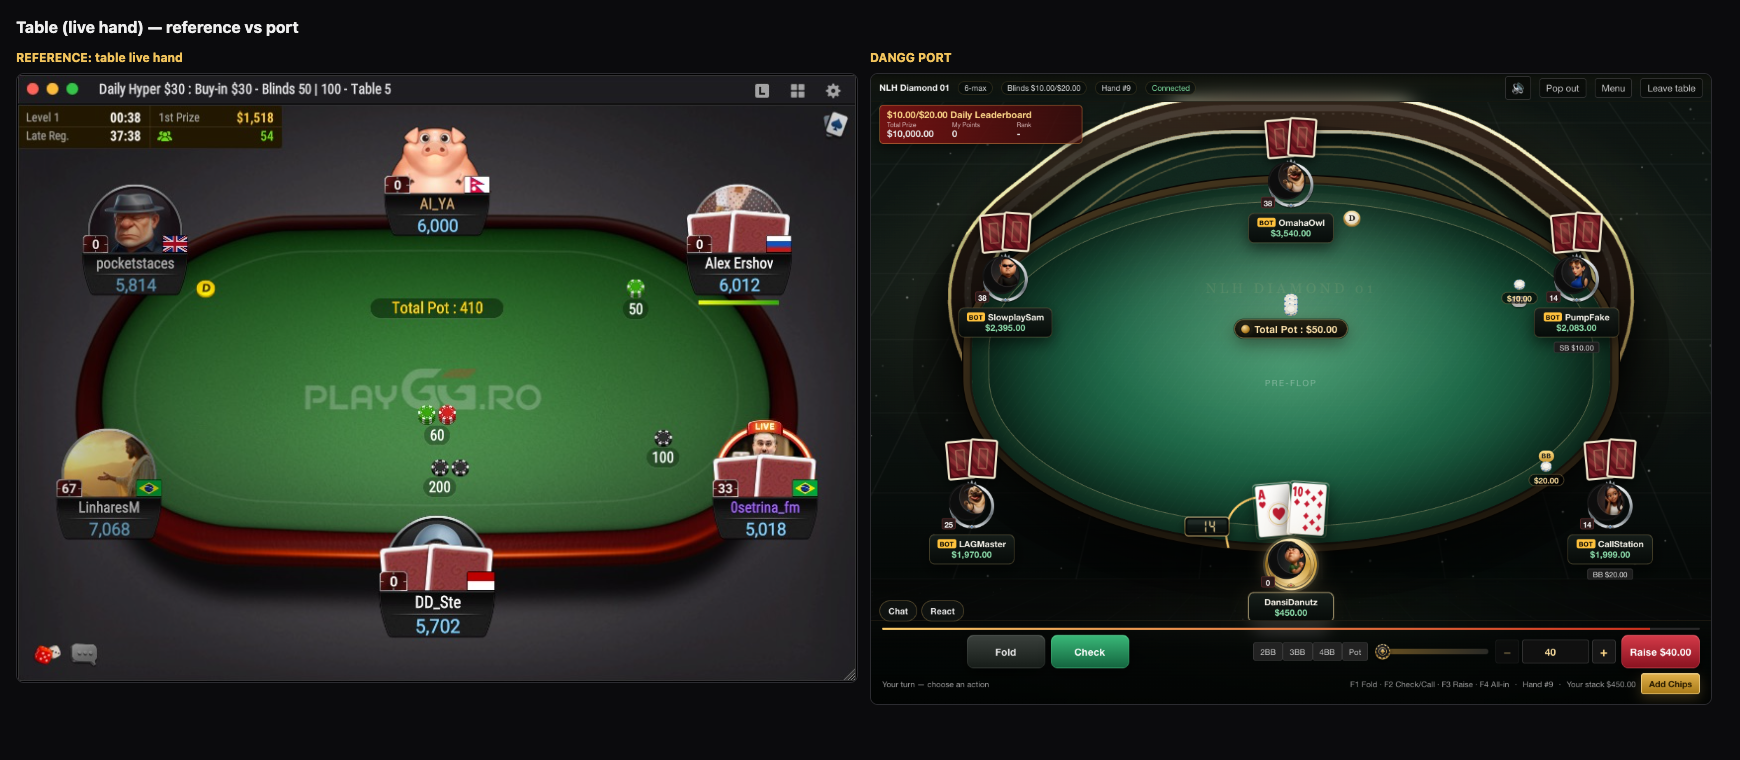
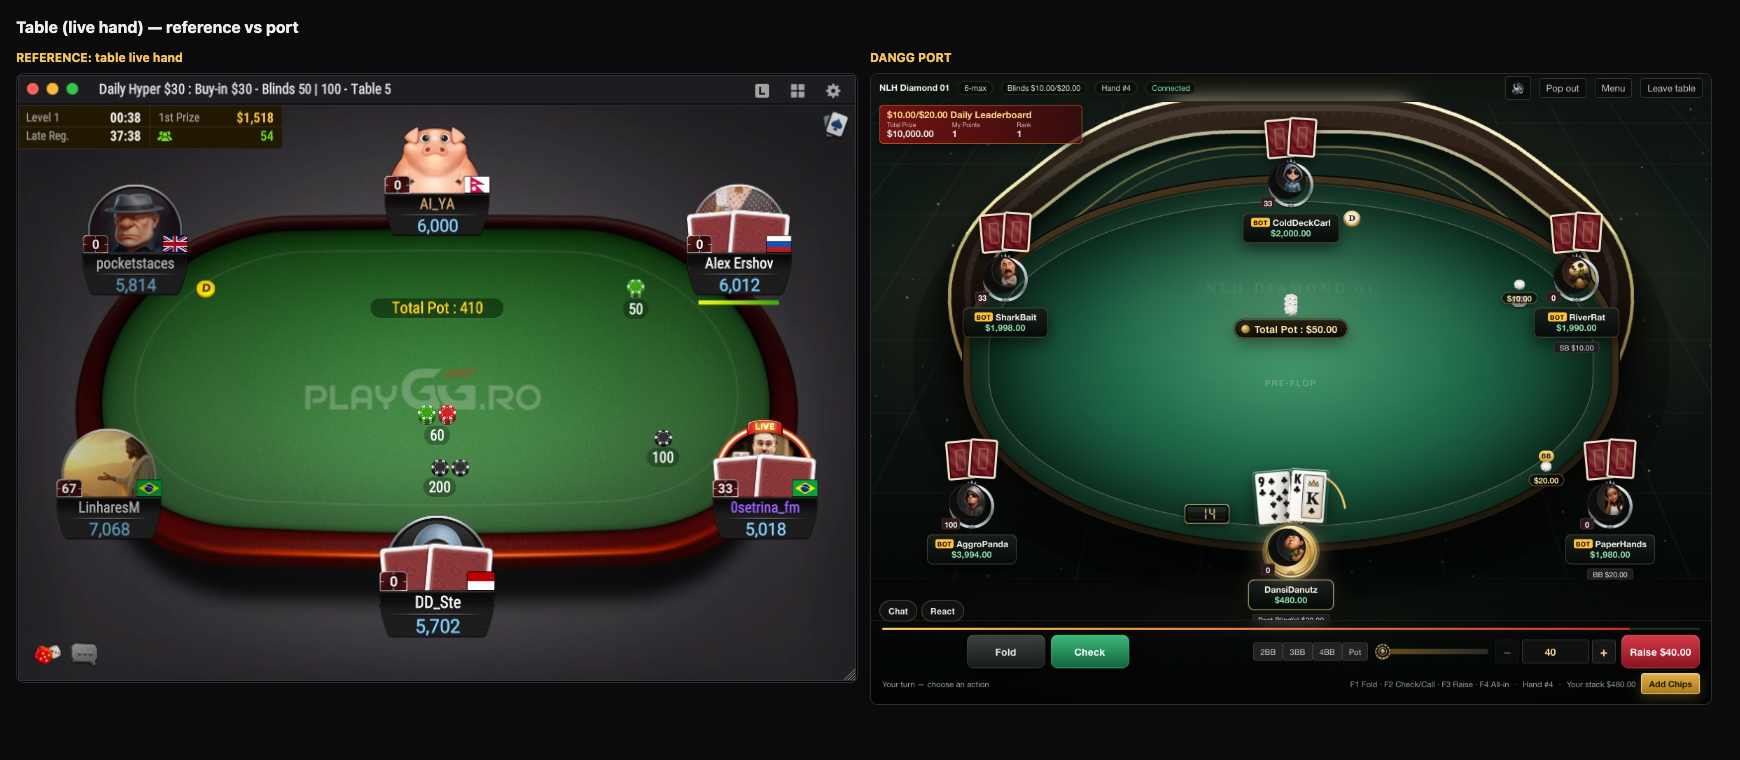
feat(table): hand-end celebration and hero pod clearance
- Winner: double expanding gold rings, avatar pulse, WIN banner pop with glow, gold
  gradient amount and six rising sparks; all reduced-motion aware.
- Chip flights get a warm trail; wager pills a stronger edge.
- Hero pod lifted 18px on desktop so the nickname/stack never clip behind the action
  bar; phone layout unchanged.
- Evidence: real winning hand (SharkBait +38) and refreshed 1200/1440 shots; 864 tests,
  tsc and Vite build clean.

diff --git a/app/src/table-premium.css b/app/src/table-premium.css
@@ -139,3 +139,65 @@
   @keyframes rotateHint { 0%, 40% { transform: rotate(0); } 60%, 100% { transform: rotate(90deg); } }
 }
 @media (prefers-reduced-motion: reduce) { .table-rotate-icon { animation: none !important; } }
+
+/* ---------- Hand-end celebration ---------- */
+.table-screen .seat.winner .avatar-wrap {
+  animation: winnerRing 1.5s var(--spring) 2;
+  box-shadow: 0 0 0 3px rgba(255, 228, 160, .35), 0 0 40px rgba(255, 213, 120, .55);
+}
+@keyframes winnerRing {
+  0% { transform: scale(1); }
+  35% { transform: scale(1.08); }
+  100% { transform: scale(1); }
+}
+.table-screen .seat.winner::after {
+  content: ''; position: absolute; left: 50%; top: 44%; width: 74px; height: 74px; margin: -37px 0 0 -37px;
+  border-radius: 50%; border: 2px solid rgba(255, 228, 160, .85);
+  animation: winRing 1.2s ease-out 2; pointer-events: none; z-index: 2;
+}
+@keyframes winRing {
+  0% { transform: scale(.7); opacity: .95; }
+  100% { transform: scale(2.1); opacity: 0; }
+}
+.table-screen .native-win {
+  animation: winBanner 1.6s var(--spring) both;
+  filter: drop-shadow(0 10px 22px rgba(0, 0, 0, .6)) drop-shadow(0 0 18px rgba(255, 213, 120, .45));
+}
+@keyframes winBanner {
+  0% { opacity: 0; transform: translateX(-50%) translateY(14px) scale(.7); }
+  45% { opacity: 1; transform: translateX(-50%) translateY(-6px) scale(1.06); }
+  100% { opacity: 1; transform: translateX(-50%) translateY(0) scale(1); }
+}
+.table-screen .seat .win-amount {
+  font-size: 19px; font-weight: 900; letter-spacing: .4px;
+  background: linear-gradient(180deg, #fff8df, #ffe09a 55%, #d8a53f);
+  -webkit-background-clip: text; background-clip: text; color: transparent;
+  filter: drop-shadow(0 2px 4px rgba(0, 0, 0, .8)) drop-shadow(0 0 10px rgba(255, 213, 120, .55));
+}
+/* Gold sparks above the winner. */
+.table-screen .seat.winner .cards::before {
+  content: ''; position: absolute; left: 50%; top: -18px; width: 6px; height: 6px; border-radius: 50%;
+  background: #ffe9b0;
+  box-shadow:
+    -26px 6px 0 -1px #ffd98a, 22px -4px 0 -1px #ffe9b0, -12px -14px 0 -2px #ffcf6b,
+    14px 12px 0 -2px #ffe9b0, -34px -8px 0 -2px #ffcf6b, 32px 10px 0 -2px #ffd98a;
+  animation: winSparks 1.3s ease-out 2; pointer-events: none; z-index: 9;
+}
+@keyframes winSparks {
+  0% { opacity: 0; transform: translateY(10px) scale(.6); }
+  35% { opacity: 1; }
+  100% { opacity: 0; transform: translateY(-22px) scale(1.1); }
+}
+
+/* Chip flights get a warm trail. */
+.table-screen .collect-chip { filter: drop-shadow(0 0 6px rgba(255, 213, 120, .55)); }
+.table-screen .wager-amount { border-color: rgba(255, 213, 120, .4); box-shadow: 0 2px 8px rgba(0, 0, 0, .5); }
+
+@media (prefers-reduced-motion: reduce) {
+  .table-screen .seat.winner .avatar-wrap, .table-screen .seat.winner::after,
+  .table-screen .native-win, .table-screen .seat.winner .cards::before { animation: none !important; }
+}
+
+/* Keep the hero pod clear of the action bar on desktop. */
+.table-screen .seat.me { margin-top: -18px; }
+@media (max-width: 760px) { .table-screen .seat.me { margin-top: 0; } }

diff --git a/docs/designs/2026-11-14-table-chrome-pass.md b/docs/designs/2026-11-14-table-chrome-pass.md
@@ -39,3 +39,14 @@ visual/materal pass plus two small UX additions.
 - Board cards and the tournament info bar at the top-left can be richer.
 - Deal/chip/payout motion already exists in the engine but needs the same material
   review next.
+
+## Follow-up: celebration + hero clearance
+
+- **Hand-end celebration**: winner avatar pulses twice, two expanding gold rings, the
+  WIN banner pops in with a warm drop-shadow, the amount is a gold gradient with glow
+  and six gold sparks rise above the cards. All disabled under reduced motion.
+- **Chip flights** get a warm trail; wager pills a stronger edge.
+- **Hero pod lifted 18 px** on desktop so the nickname and stack are never clipped by
+  the action bar (phone layout unchanged).
+- Evidence: `docs/screenshots/table-shots/1200-win.png` (real winning hand, SharkBait
+  +$38), refreshed `1200-final.png`.

diff --git a/CHANGELOG.md b/CHANGELOG.md
@@ -4,6 +4,7 @@
   gold-hairline plates, refined card backs and hero cards, gold pot pill and 48px
   green/red action buttons.
 - Tablet portrait shows a rotate prompt instead of a squeezed table.
+- Hand-end celebration (rings, banner pop, gold sparks), chip trails and an 18px hero-pod lift.
 - Gameplay and payout motion untouched.
 
 ## 2026-11-14 — motion + material across the app
